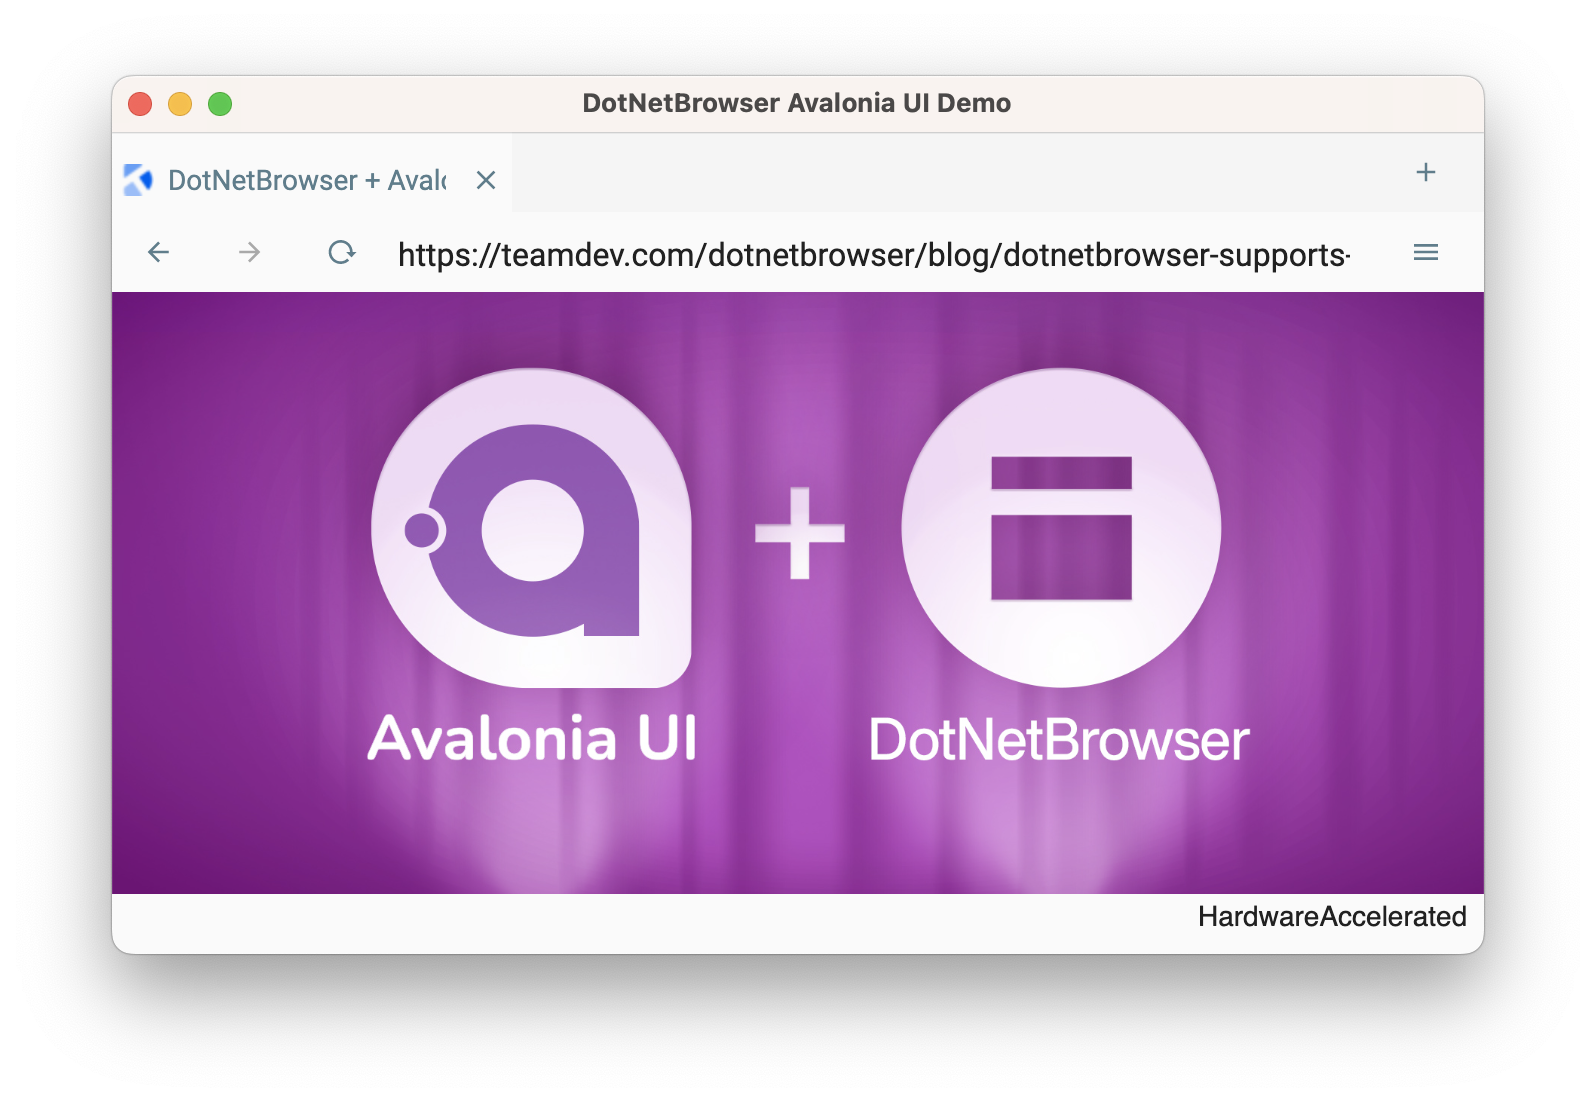
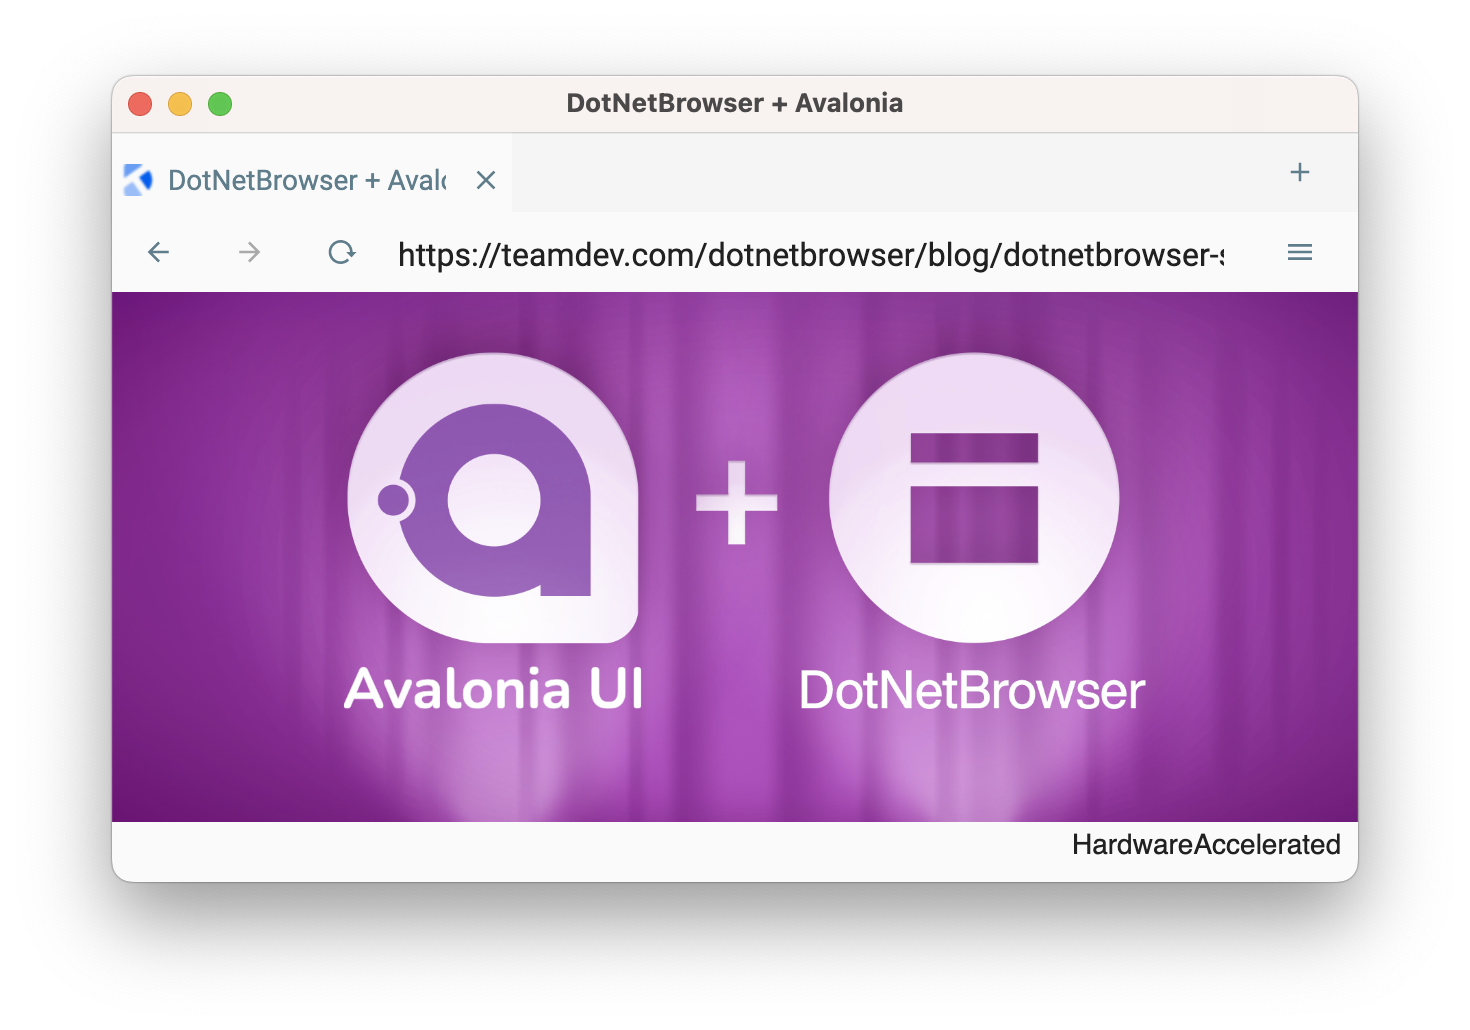
Final touches

diff --git a/README.md b/README.md
@@ -1,11 +1,15 @@
-# Avalonia Browser
+<h1 align="center">
+  <br>
+  Avalonia Browser
+  <br>
+</h1>
 
-A minimal browser application built with Avalonia UI and DotNetBrowser. 
+<h4 align="center">A demo browser application build with <a href="https://avaloniaui.net/" target="_blank">Avalonia UI</a> and <a href="https://teamdev.com/dotnetbrowser" target="_blank">DotNetBrowser</a>.</h4>
 
-Launch it on Windows, macOS, and Linux.
+<h4 align="center">Works on Windows, macOS, and Linux.</h4>
 
 <p align="center">
-  <img src="screenshot.png" alt="Size Limit CLI" width="910">
+  <img src="screenshot.png" alt="Size Limit CLI" width="735">
 </p>
 
 ## Prerequisites
@@ -14,8 +18,14 @@ Launch it on Windows, macOS, and Linux.
 
 ## How to run
 
-Execute the following command from the solution directory:
+Get a 30-day free trial license for DotNetBrowser by [this link](https://teamdev.com/dotnetbrowser/?utm_source=github&utm_medium=avalonia-demo&utm_campaign=avalonia#evaluate). The license will arrive in your inbox in an instant.
 
-```
-dotnet run --project DotNetBrowser.AvaloniaUi.Demo
-```
+And then execute this command from the solution directory:
+
+   ```bash
+   dotnet run --project DotNetBrowser.AvaloniaUi.Demo
+   ```
+
+## Credits
+
+* Thanks to [Avalonia UI team](https://github.com/AvaloniaUI/Avalonia) for great technology and collaboration.
